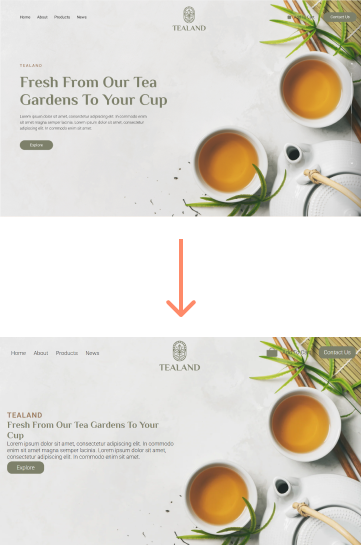
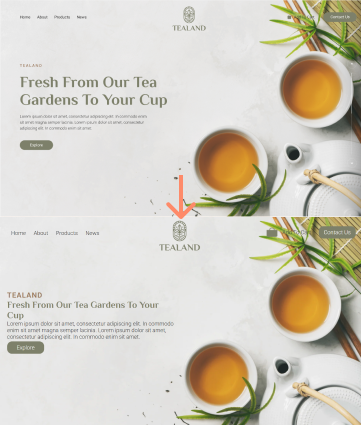
some pic replacements

diff --git a/assets/bundle.css b/assets/bundle.css
@@ -1,1 +1,1 @@
-.cta-paragraph{display:flex;margin:auto}.about .container{display:flex;flex-direction:column}@media(min-width:420px){.cta-paragraph{max-width:65ch!important;text-align:left!important}}.cta-paragraph{display:flex;align-items:center;justify-content:center}.cta-div{display:flex;flex-direction:row;align-items:center;justify-content:center;box-sizing:border-box}@media(min-width:420px){.hero .container{margin:auto}}.footer{padding-top:var(--gap-in-sections);padding-bottom:var(--gap-in-sections);border-top:2px solid var(--accent)}@media(min-width:420px){.footer{padding-top:var(--gap-in-sections);padding-bottom:var(--gap-in-sections)}}.portfolio-pic img{width:140px;aspect-ratio:auto;box-shadow:8px 8px 16px #0003}.portfolio .container{display:flex;flex-direction:column;align-items:center;justify-content:center;text-align:center;gap:var(--gap-in-blocks)}.hero.portfolio .container{display:flex;flex-direction:column}@media(min-width:700px){.portfolio-pic img{box-shadow:1vw 1vw 2vw #0003!important}}@media(min-width:420px){.portfolio-pic img{width:100%}}@media(min-width:162px)and (max-width:419px){.portfolio .container{padding-top:0!important}}@media(min-width:420px)and (max-width:4096px){.portfolio .container{padding-top:0!important}}.video-1{width:auto;height:auto;overflow:hidden;box-shadow:8px 8px 16px #0003!important}.video-1 video{aspect-ratio:1920/1040!important}.item-container,.item{display:flex!important;flex-direction:column!important;gap:var(--gap-in-blocks)!important}.buttons{display:inline-flex;flex-direction:row;align-items:center;justify-content:center;flex-wrap:wrap;gap:var(--gap-in-blocks)}button{display:inline-flex;flex-direction:row;align-items:center;justify-content:center;gap:var(--gap-in-blocks)}.item-container ul{list-style-type:disc!important;display:inline-block;text-align:left;margin-inline:auto;list-style-position:inside}.header{display:flex;flex-direction:row;justify-content:space-between;padding-top:var(--gap-in-sections);max-width:var(--container-max-width);margin:auto}@media(min-width:420px){.header{padding-top:var(--gap-in-sections);padding-bottom:var(--gap-in-sections)}}.hero-cta .cta-block{display:flex;flex-direction:column;align-items:center;justify-content:center;box-shadow:8px 8px 16px #0003;padding:var(--gap-in-blocks);box-sizing:border-box;gap:var(--gap-in-blocks)}.cta-p{margin-top:0;text-align:center}.hero-cta{margin:auto}label{display:inline-flex;flex-direction:row;align-items:center}@media(min-width:420px){.hero-cta,.hero-cta .cta-block{width:100%}}.hero .hero-cta ul{list-style:none;padding:0;margin:0}.hero .hero-cta input{border:2px solid var(--accent);appearance:none;cursor:pointer}.hero .hero-cta input:checked{background-image:url(/assets/checked.svg);background-repeat:no-repeat;background-position:center;background-size:50%}@media(max-width:699px){.hero .hero-cta input{width:12px!important;height:12px!important;margin-right:var(--gap-in-blocks)!important}}@media(max-width:4096px){.hero .hero-cta input{width:32px;height:32px;margin-right:var(--gap-in-blocks)}}.fieldset{display:flex;flex-wrap:wrap;flex-direction:column}.hero-left-logo{padding-left:var(--gap-in-sections)}@media(min-width:420px){.hero-left-logo{padding-left:var(--gap-in-sections)}}.hero .hero-pic{height:250px;border-radius:100%}.hero .hero-pic img{box-shadow:8px 8px 16px #0003}@media(min-width:162px)and (max-width:419px){.hero .hero-pic{height:140px;margin:auto}}@media(min-width:420px)and (max-width:4096px){.hero .hero-pic{width:100%;height:auto;margin:auto}}.hero-right-menu{cursor:pointer;padding-right:var(--gap-in-sections)}.hero-full-right-menu ul{display:flex;flex-direction:row}@media(min-width:162px)and (max-width:419px){.header .hero-full-right-menu{display:none}}@media(min-width:420px)and (max-width:1279px){.hero-right-menu{width:6vw;padding-right:var(--gap-in-sections)}.header .hero-full-right-menu{display:none}}@media(min-width:1280px)and (max-width:4096px){.header .hero-right-menu{display:none}.header .hero-full-right-menu ul{gap:var(--gap-in-sections)}.header .hero-full-right-menu{padding-right:var(--gap-in-sections)}}.hero .container{display:flex;max-width:var(--container-max-width)!important}.hero .container *{max-width:100%}.hero .container .block-2{display:flex}@media(max-width:419px){.hero .container{flex-direction:column}.hero .container .block-1{display:flex}.hero .container .block-3{display:none}}@media(min-width:420px)and (max-width:4096px){.hero .container{flex-direction:row;justify-content:center;gap:var(--gap-in-sections)}.hero .container .block-1{display:none}.hero .container .block-2{width:50%}.hero .container .block-3{display:flex;width:50%}}.modal-type.visible{position:fixed;display:flex!important;flex-direction:column;align-items:center;justify-content:center;z-index:4;width:80%;aspect-ratio:1/1;top:50%;left:50%;transform:translate(-50%,-50%);background-color:#fff;box-shadow:8px 8px 16px #0003;box-sizing:border-box}.wrapper.is-background{opacity:.5}.btn-pic{width:30px;aspect-ratio:auto}.modal-type p{margin:0;text-align:center}.send-btn{display:flex;flex-direction:row;align-items:center;justify-content:center;background-color:#fe8a69;border:none;box-sizing:border-box;cursor:pointer}@media(min-width:700px){.modal-type{width:40%!important;box-shadow:1vw 1vw 2vw #0003!important}.btn-pic{width:32px!important}}@media(min-width:1280px){.modal-type{width:25%!important}}.pic-1,.pic-2{width:100%;height:auto;overflow:hidden;margin-top:var(--gap-in-blocks)}.pic-1 img,.pic-2 img{object-fit:cover;box-shadow:8px 8px 16px #0003}@media(min-width:420px){.pic-1,.pic-2{margin-top:var(--gap-in-blocks)}}@media(max-width:419px){.services .container{gap:var(--gap-in-sections)}}@media(min-width:420px){.hero.services{width:100%;margin:auto}}:root{--accent: #fe8a69;--dark: #1d1d1f;--bg: #fff6f2;--text: clamp(15px,1vw+10px,18px);--heading: 16px;--container-max-width: 1200px;--gap-in-blocks: 8px;--gap-in-sections: 16px;--gap-sections: 64px}@media(min-width:420px){:root{--heading: 20px;--gap-in-blocks: 16px;--gap-in-sections: 32px;--gap-sections: 96px}}@media(min-width:700px){:root{--heading: 28px}}@media(min-width:1280px){:root{--heading: 44px}}a{color:inherit;text-decoration:none;outline:none}a:visited,a:hover,a:active{color:inherit}button.contoured{background:transparent!important;border:2px solid var(--accent)}@font-face{font-family:Inter;font-style:normal;font-weight:400;font-display:swap;src:url(/assets/Inter-latin.woff2) format("woff2"),}@font-face{font-family:Cormorant Garamond;font-style:normal;font-weight:400;font-display:swap;src:url(/assets/Cormorant-latin.woff2) format("woff2"),}.title{font-size:var(--heading);font-family:Cormorant Garamond,Georgia,Times New Roman,Times,serif;text-decoration-line:underline;text-decoration-color:#fe8a69!important;text-decoration-thickness:2px;text-underline-offset:8px}.subtitle{font-size:var(--heading);font-family:Cormorant Garamond,Georgia,Times New Roman,Times,serif}body{font-size:var(--text);font-family:Inter,-apple-system,BlinkMacSystemFont,Segoe UI,Roboto,Helvetica,Arial,sans-serif;background-color:#fff;display:flex;flex-direction:column}.everything{max-width:1250px!important;width:1250px!important;margin:auto;background-color:var(--bg)}h1,h2,h3,h4,h5,h6,p{margin:0;padding:0}@media(min-width:420px){.title{text-decoration-thickness:2px;text-underline-offset:8px}}ul{list-style:none;padding:0;margin:0}button{border:none;background-color:#fe8a69;cursor:pointer;padding:5px 10px;color:#000;font:inherit}video::-webkit-media-controls-panel{background-image:none!important}@media(max-width:161px){.wrapper,.header{display:none!important}.width-text{display:inline}}@media(min-width:162px)and (max-width:4096px){.width-text{display:none}body{margin:0}}@media(min-width:4097px){.wrapper{display:none}.width-text{display:inline}}#popup-menu.visible{position:absolute;z-index:100;top:0;right:0;display:flex!important;width:100%;background-color:#fff;box-shadow:8px 8px 16px #0003;flex-direction:column;align-items:center;justify-content:center}@media(max-width:419px){#popup-menu.visible{aspect-ratio:1/.5;width:80%;top:40px}}@media(max-width:240px){#popup-menu.visible{aspect-ratio:1/.8;width:80%;top:40px}}@media(min-width:420px){#popup-menu.visible{aspect-ratio:1/.3;width:50%;top:9vw;box-sizing:border-box}#popup-menu ul a{text-decoration-thickness:4px;text-underline-offset:4px}}#popup-menu ul{display:flex;flex-direction:column;text-align:center}.wrapper{display:flex;flex-direction:column;gap:var(--gap-sections);padding-top:var(--gap-in-sections)}.video-1{position:relative;cursor:pointer}.play-pause{position:absolute;bottom:0;right:0;opacity:.5;background-color:transparent}.play-pause img{width:32px;height:auto}@media(min-width:420px){.play-pause img{width:64px}}.video-pause.hidden,.video-play.hidden,.play-pause.hidden{display:none}
+.cta-paragraph{display:flex;margin:auto}.about .container{display:flex;flex-direction:column}@media(min-width:420px){.cta-paragraph{max-width:65ch!important;text-align:left!important}}.cta-paragraph{display:flex;align-items:center;justify-content:center}.cta-div{display:flex;flex-direction:row;align-items:center;justify-content:center;box-sizing:border-box}@media(min-width:420px){.hero .container{margin:auto}}.footer .container{padding-top:var(--gap-in-sections);padding-bottom:var(--gap-in-sections);border-top:2px solid var(--accent)}@media(min-width:420px){.footer .container{padding-top:var(--gap-in-sections);padding-bottom:var(--gap-in-sections)}}.portfolio-pic img{width:140px;aspect-ratio:auto;box-shadow:8px 8px 16px #0003}.portfolio .container{display:flex;flex-direction:column;align-items:center;justify-content:center;text-align:center;gap:var(--gap-in-blocks)}.hero.portfolio .container{display:flex;flex-direction:column}@media(min-width:700px){.portfolio-pic img{box-shadow:1vw 1vw 2vw #0003!important}}@media(min-width:420px){.portfolio-pic img{width:100%}}@media(min-width:162px)and (max-width:419px){.portfolio .container{padding-top:0!important}}@media(min-width:420px)and (max-width:4096px){.portfolio .container{padding-top:0!important}}.video-1{width:auto;height:auto;overflow:hidden;box-shadow:8px 8px 16px #0003!important}.video-1 video{aspect-ratio:1920/1040!important}.item-container,.item{display:flex!important;flex-direction:column!important;gap:var(--gap-in-blocks)!important}.buttons{display:inline-flex;flex-direction:row;align-items:center;justify-content:center;flex-wrap:wrap;gap:var(--gap-in-blocks)}button{display:inline-flex;flex-direction:row;align-items:center;justify-content:center;gap:var(--gap-in-blocks)}.item-container ul{list-style-type:disc!important;display:inline-block;text-align:left;margin-inline:auto;list-style-position:inside}.header{display:flex;flex-direction:row;justify-content:space-between;padding-top:var(--gap-in-blocks);max-width:var(--container-max-width);margin:auto}@media(min-width:420px){.header{padding-top:var(--gap-in-sections);padding-bottom:var(--gap-in-sections)}}.hero-cta .cta-block{display:flex;flex-direction:column;align-items:center;justify-content:center;box-shadow:8px 8px 16px #0003;padding:var(--gap-in-blocks);box-sizing:border-box;gap:var(--gap-in-blocks)}.cta-p{margin-top:0;text-align:center}.hero-cta{margin:auto}label{display:inline-flex;flex-direction:row;align-items:center}@media(min-width:420px){.hero-cta,.hero-cta .cta-block{width:100%}}@media(max-width:1280px){.hero .container{padding-left:var(--gap-in-blocks);padding-right:var(--gap-in-blocks)}}.hero .hero-cta ul{list-style:none;padding:0;margin:0}.hero .hero-cta input{border:2px solid var(--accent);appearance:none;cursor:pointer;flex-shrink:0}.hero .hero-cta input:checked{background-image:url(/assets/checked.svg);background-repeat:no-repeat;background-position:center;background-size:50%}@media(max-width:699px){.hero .hero-cta input{width:24px!important;height:24px!important;margin-right:var(--gap-in-blocks)!important}}@media(max-width:4096px){.hero .hero-cta input{width:32px;height:32px;margin-right:var(--gap-in-blocks)}}.fieldset{display:flex;flex-wrap:wrap;flex-direction:column}@media(max-width:1280px){.hero-left-logo{padding-left:var(--gap-in-blocks)}}.hero .hero-pic{height:250px;border-radius:100%}.hero .hero-pic img{box-shadow:8px 8px 16px #0003}@media(min-width:162px)and (max-width:419px){.hero .hero-pic{height:140px;margin:auto}}@media(min-width:420px)and (max-width:4096px){.hero .hero-pic{width:100%;height:auto;margin:auto}}.hero-right-menu{cursor:pointer;padding-right:var(--gap-in-blocks)}.hero-full-right-menu ul{display:flex;flex-direction:row}@media(min-width:162px)and (max-width:419px){.header .hero-full-right-menu{display:none}}@media(min-width:420px)and (max-width:1279px){.hero-right-menu{padding-right:var(--gap-in-blocks)}.header .hero-full-right-menu{display:none}}@media(min-width:1280px)and (max-width:4096px){.header .hero-right-menu{display:none}.header .hero-full-right-menu ul{gap:var(--gap-in-sections)}}.hero .container{display:flex;max-width:var(--container-max-width)!important}.hero .container *{max-width:100%}.hero .container .block-2{display:flex}@media(max-width:419px){.hero .container{flex-direction:column}.hero .container .block-1{display:flex}.hero .container .block-3{display:none}}@media(min-width:420px)and (max-width:4096px){.hero .container{flex-direction:row;justify-content:center;gap:var(--gap-in-sections)}.hero .container .block-1{display:none}.hero .container .block-2{width:50%}.hero .container .block-3{display:flex;width:50%}}.modal-type.visible{position:fixed;display:flex!important;flex-direction:column;align-items:center;justify-content:center;z-index:4;width:80%;aspect-ratio:1/1;top:50%;left:50%;transform:translate(-50%,-50%);background-color:#fff;box-shadow:8px 8px 16px #0003;box-sizing:border-box}.wrapper.is-background{opacity:.5}.btn-pic{width:30px;aspect-ratio:auto}.modal-type p{margin:0;text-align:center}.send-btn{display:flex;flex-direction:row;align-items:center;justify-content:center;background-color:#fe8a69;border:none;box-sizing:border-box;cursor:pointer}@media(min-width:700px){.modal-type{width:40%!important;box-shadow:1vw 1vw 2vw #0003!important}.btn-pic{width:32px!important}}@media(min-width:1280px){.modal-type{width:25%!important}}.pic-1,.pic-2{width:100%;height:auto;overflow:hidden;margin-top:var(--gap-in-blocks)}.pic-1 img,.pic-2 img{object-fit:cover;box-shadow:8px 8px 16px #0003}@media(min-width:420px){.pic-1,.pic-2{margin-top:var(--gap-in-blocks)}}@media(max-width:419px){.services .container{gap:var(--gap-in-sections)}}@media(min-width:420px){.hero.services{width:100%;margin:auto}}:root{--accent: #fe8a69;--dark: #1d1d1f;--bg: #fff6f2;--text: clamp(15px,1vw+10px,18px);--heading: 20px;--container-max-width: 1200px;--gap-in-blocks: 8px;--gap-in-sections: 16px;--gap-sections: 64px}@media(min-width:420px){:root{--heading: 28px;--gap-in-blocks: 16px;--gap-in-sections: 32px;--gap-sections: 96px}}@media(min-width:700px){:root{--heading: 44px}}@media(min-width:1280px){:root{--heading: 44px}}a{color:inherit;text-decoration:none;outline:none}a:visited,a:hover,a:active{color:inherit}button.contoured{background:transparent!important;border:2px solid var(--accent)}@font-face{font-family:Inter;font-style:normal;font-weight:400;font-display:swap;src:url(/assets/Inter-latin.woff2) format("woff2"),}@font-face{font-family:Cormorant Garamond;font-style:normal;font-weight:400;font-display:swap;src:url(/assets/Cormorant-latin.woff2) format("woff2"),}.title{font-size:var(--heading);font-family:Cormorant Garamond,Georgia,Times New Roman,Times,serif;text-decoration-line:underline;text-decoration-color:#fe8a69!important;text-decoration-thickness:2px;text-underline-offset:8px}.subtitle{font-size:var(--heading);font-family:Cormorant Garamond,Georgia,Times New Roman,Times,serif}body{font-size:var(--text);font-family:Inter,-apple-system,BlinkMacSystemFont,Segoe UI,Roboto,Helvetica,Arial,sans-serif;background-color:#fff;display:flex;flex-direction:column;background-color:var(--bg)}.everything{max-width:1296px!important;width:100%;margin:auto;background-color:#fff}h1,h2,h3,h4,h5,h6,p{margin:0;padding:0}@media(min-width:420px){.title{text-decoration-thickness:2px;text-underline-offset:8px}}ul{list-style:none;padding:0;margin:0}button{border:none;background-color:#fe8a69;cursor:pointer;padding:5px 10px;color:#000;font:inherit}video::-webkit-media-controls-panel{background-image:none!important}@media(max-width:161px){.wrapper,.header{display:none!important}.width-text{display:inline}}@media(min-width:162px)and (max-width:4096px){.width-text{display:none}body{margin:0}}@media(min-width:4097px){.wrapper{display:none}.width-text{display:inline}}#popup-menu.visible{position:absolute;z-index:100;right:0;display:flex!important;width:fit-content;background-color:#fff;box-shadow:8px 8px 16px #0003;flex-direction:column;align-items:center;justify-content:center;box-sizing:border-box;top:40px;padding:var(--gap-in-sections);right:var(--gap-in-sections)}#popup-menu ul{display:flex;flex-direction:column;text-align:center;gap:var(--gap-in-sections)}.wrapper{display:flex;flex-direction:column;gap:var(--gap-sections);padding-top:var(--gap-in-sections)}.video-1{position:relative;cursor:pointer}.play-pause{position:absolute;bottom:0;right:0;opacity:.5;background-color:transparent}.play-pause img{width:32px;height:auto}@media(min-width:420px){.play-pause img{width:64px}}.video-pause.hidden,.video-play.hidden,.play-pause.hidden{display:none}

diff --git a/assets/css/theme.css b/assets/css/theme.css
@@ -3,7 +3,7 @@
     --dark: #1d1d1f;
     --bg: #fff6f2;
     --text: clamp(15px,1vw+10px,18px);
-    --heading: 16px;
+    --heading: 20px;
     --container-max-width: 1200px;
     --gap-in-blocks: 8px;
     --gap-in-sections: 16px;
@@ -11,7 +11,7 @@
 }
 @media (min-width: 420px) {
     :root {
-        --heading: 20px;
+        --heading: 28px;
         --gap-in-blocks: 16px;
         --gap-in-sections: 32px;
         --gap-sections: 96px;
@@ -19,7 +19,7 @@
 }
 @media (min-width: 700px) {
     :root {
-        --heading: 28px;
+        --heading: 44px;
     }
 }
 @media (min-width: 1280px) {
@@ -71,12 +71,13 @@ body {
     background-color: #ffffff;
     display: flex;
     flex-direction: column;
+    background-color: var(--bg);
 }
 .everything {
-    max-width: 1250px !important;
-    width: 1250px !important;
+    max-width: 1296px !important;
+    width: 100%;
     margin: auto;
-    background-color: var(--bg);
+    background-color: #ffffff;
 }
 h1,h2,h3,h4,h5,h6,p {
     margin: 0;
@@ -141,43 +142,22 @@ video::-webkit-media-controls-panel {
     top: 0;
     right: 0;
     display: flex !important;
-    width: 100%;
+    width: fit-content;
     background-color: #ffffff;
     box-shadow: 8px 8px 16px rgba(0,0,0,0.2);
     flex-direction: column;
     align-items: center;
     justify-content: center;
-}
-@media (max-width: 419px) {
-    #popup-menu.visible {
-        aspect-ratio: 1/0.5;
-        width: 80%;
-        top: 40px;
-    }
-}
-@media (max-width: 240px) {
-    #popup-menu.visible {
-        aspect-ratio: 1/0.8;
-        width: 80%;
-        top: 40px;
-    }
-}
-@media (min-width: 420px) {
-    #popup-menu.visible {
-        aspect-ratio: 1/0.3;
-        width: 50%;
-        top: 9vw;
-        box-sizing: border-box;
-    }
-    #popup-menu ul a {
-        text-decoration-thickness: 4px;
-        text-underline-offset: 4px;
-    }
+    box-sizing: border-box;
+    top: 40px;
+    padding: var(--gap-in-sections);
+    right: var(--gap-in-sections);
 }
 #popup-menu ul {
     display: flex;
     flex-direction: column;
     text-align: center;
+    gap: var(--gap-in-sections);
 }
 .wrapper {
     display: flex;

diff --git a/assets/css/hero-cta.css b/assets/css/hero-cta.css
@@ -28,6 +28,12 @@ label {
         width: 100%;
     }
 }
+@media (max-width: 1280px) {
+    .hero .container {
+        padding-left: var(--gap-in-blocks);
+        padding-right: var(--gap-in-blocks);
+    }
+}
 .hero .hero-cta ul {
     list-style: none;
     padding: 0;
@@ -37,6 +43,7 @@ label {
     border: 2px solid var(--accent);
     appearance: none;
     cursor: pointer;
+    flex-shrink: 0;
 }
 .hero .hero-cta input:checked {
     background-image: url('/assets/checked.svg');
@@ -46,8 +53,8 @@ label {
 }
 @media (max-width: 699px) {
     .hero .hero-cta input {
-        width: 12px !important;
-        height: 12px !important;
+        width: 24px !important;
+        height: 24px !important;
         margin-right: var(--gap-in-blocks) !important;
     }
 }

diff --git a/assets/css/hero-right-menu.css b/assets/css/hero-right-menu.css
@@ -1,6 +1,6 @@
 .hero-right-menu {
     cursor: pointer;
-    padding-right: var(--gap-in-sections);
+    padding-right: var(--gap-in-blocks);
 }
 .hero-full-right-menu ul {
     display: flex;
@@ -13,8 +13,7 @@
 }
 @media (min-width: 420px) and (max-width: 1279px) {
     .hero-right-menu {
-        width: 6vw;
-        padding-right: var(--gap-in-sections);
+        padding-right: var(--gap-in-blocks);
     }
     .header .hero-full-right-menu {
         display: none;
@@ -26,8 +25,5 @@
     }
     .header .hero-full-right-menu ul {
         gap: var(--gap-in-sections);
-    }
-    .header .hero-full-right-menu {
-        padding-right: var(--gap-in-sections);
     }
 }

diff --git a/assets/css/footer.css b/assets/css/footer.css
@@ -1,10 +1,10 @@
-.footer {
+.footer .container {
     padding-top: var(--gap-in-sections);
     padding-bottom: var(--gap-in-sections);
     border-top: 2px solid var(--accent);
 }
 @media (min-width: 420px) {
-    .footer {
+    .footer .container {
         padding-top: var(--gap-in-sections);
         padding-bottom: var(--gap-in-sections);
     }

diff --git a/assets/css/hero-left-logo.css b/assets/css/hero-left-logo.css
@@ -1,8 +1,5 @@
-.hero-left-logo {
-    padding-left: var(--gap-in-sections);
-}
-@media (min-width: 420px) {
+@media (max-width: 1280px) {
     .hero-left-logo {
-        padding-left: var(--gap-in-sections);
+        padding-left: var(--gap-in-blocks);
     }
 }

diff --git a/assets/css/header.css b/assets/css/header.css
@@ -2,7 +2,7 @@
     display: flex;
     flex-direction: row;
     justify-content: space-between;
-    padding-top: var(--gap-in-sections);
+    padding-top: var(--gap-in-blocks);
     max-width: var(--container-max-width);
     margin: auto;
 }
